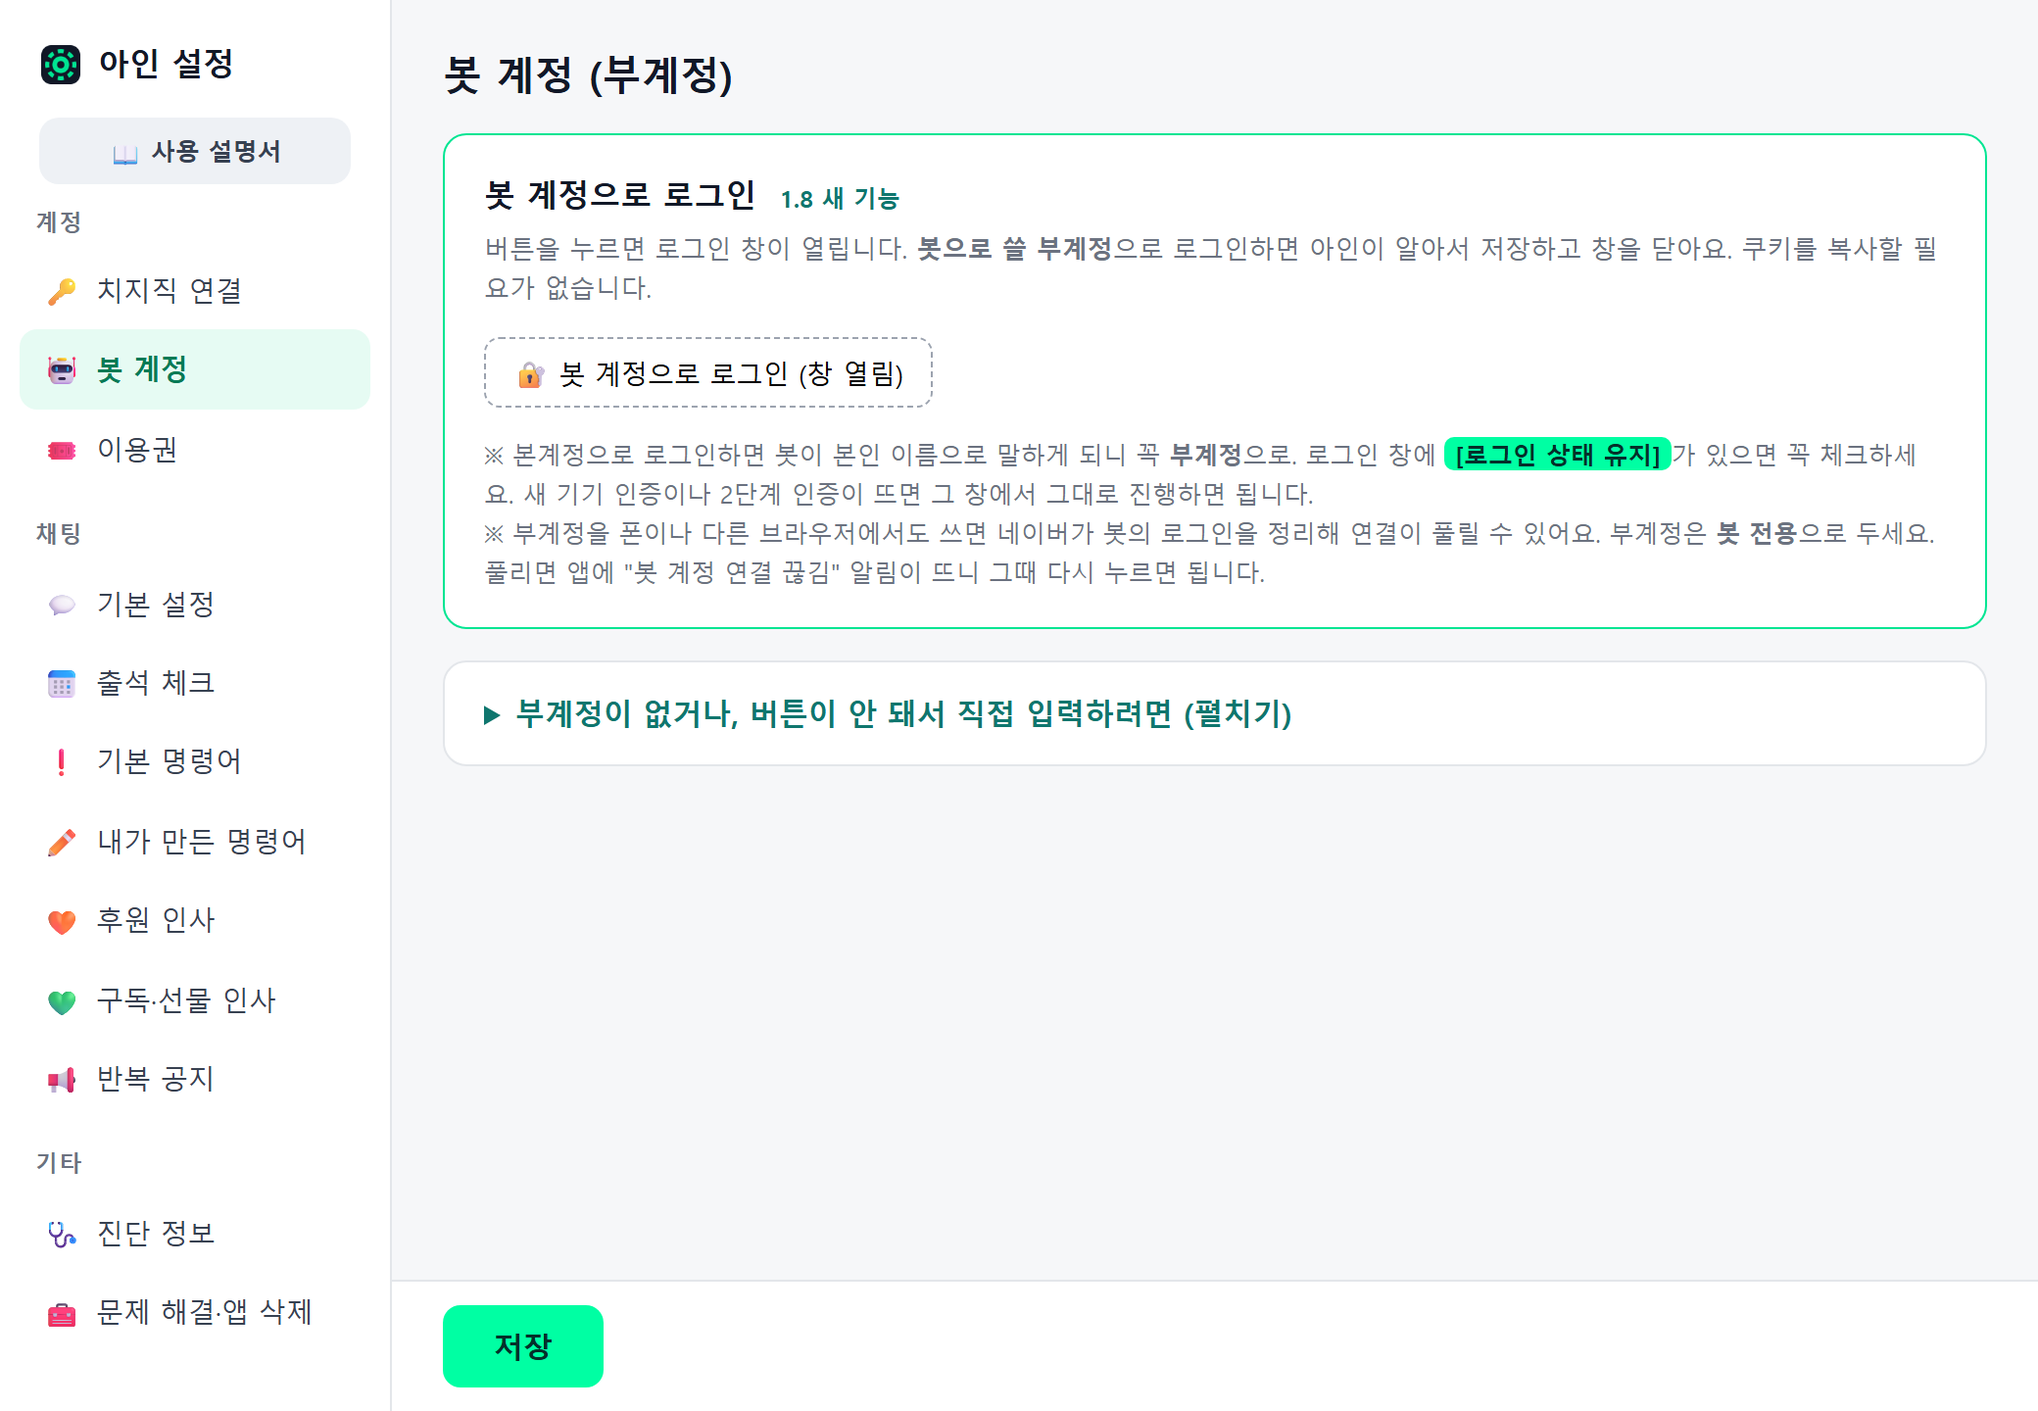
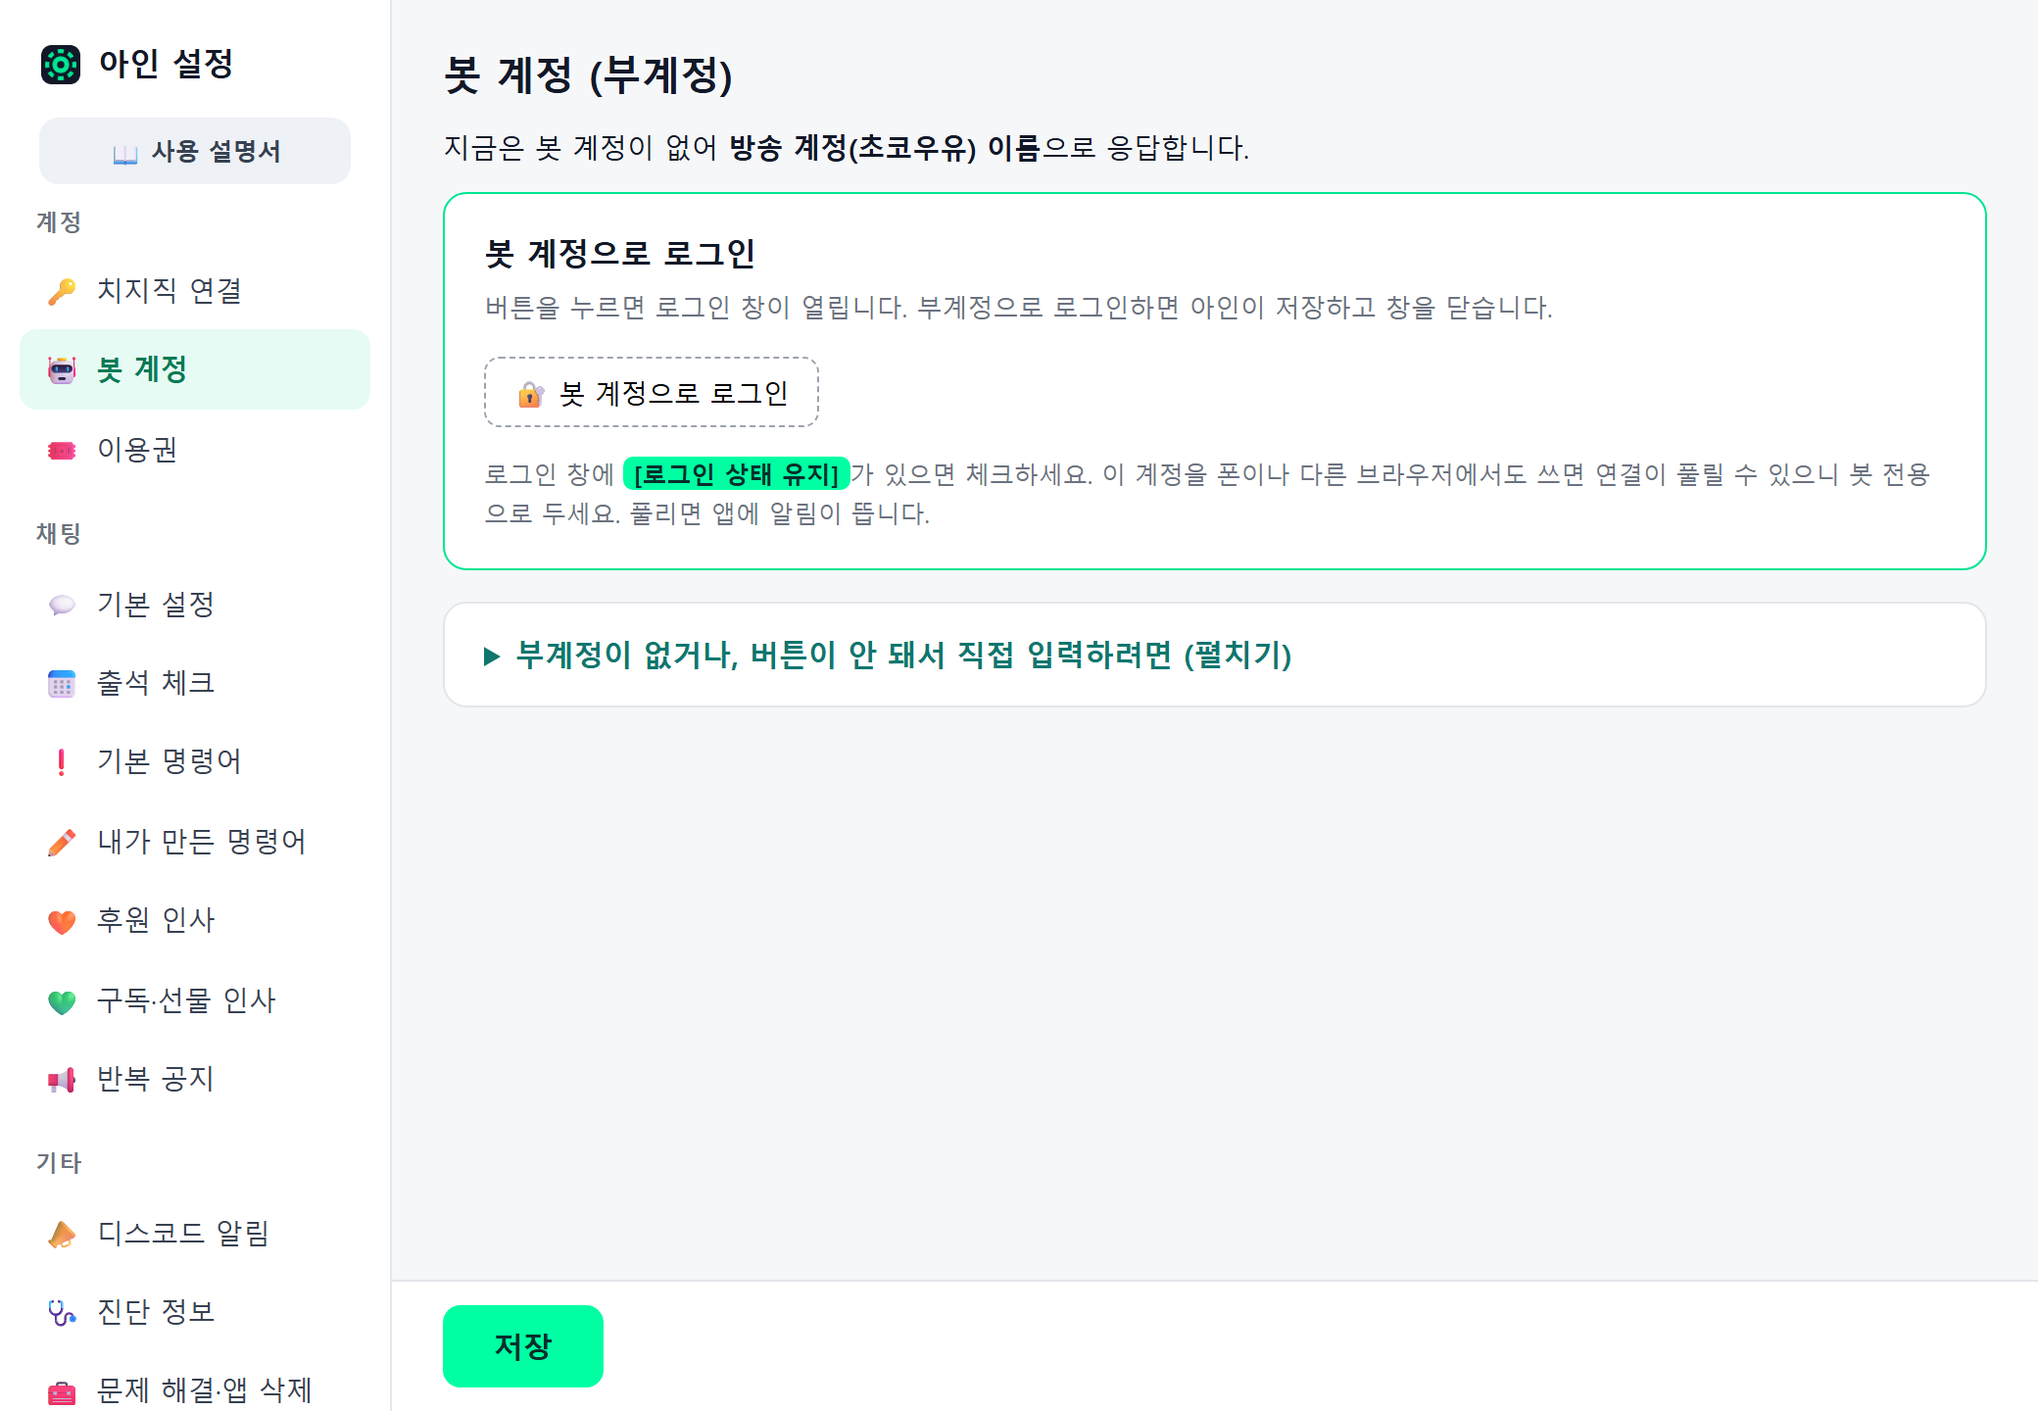
1.9.3 업데이트 기록(디스코드 알림·연결 계정 이름), 가이드 디스코드 알림 절·목차, 개인정보처리방침 개정, 봇 계정 화면 사진

diff --git a/guide/commands/index.html b/guide/commands/index.html
@@ -130,6 +130,7 @@
       <a href="/guide/donation/#donation">🧡 후원 인사</a>
       <a href="/guide/donation/#sub">💚 구독·선물 인사</a>
       <a href="/guide/commands/#notice">📢 반복 공지</a>
+      <a href="/guide/commands/#discord">📣 디스코드 알림</a>
       <a href="/privacy.html">🩺 진단 정보</a>
       <a href="/guide/troubleshooting/">🧰 문제 해결·앱 삭제</a>
       <div class="dn-grp">기능 창 · 참여</div>
@@ -156,6 +157,7 @@
   </details>
 </aside><!-- docs-nav:end -->
 
+    
     
     
     <article>
@@ -279,6 +281,30 @@
 
       <h2 id="notice">반복 공지</h2>
       <p>봇이 켜져 있는 동안 정한 간격으로 자동 전송합니다. 설정 화면의 <b>반복 공지</b>에서 [+ 공지 추가] 후 간격(분)과 내용을 적습니다. 예를 들어 20분마다 "구독하면 이모티콘이 열려요 💚" 같은 안내를 내보낼 수 있습니다. 여러 개를 두면 각자 간격대로 나갑니다. 필요 없으면 비워 두면 됩니다.</p>
+
+      <h2 id="discord">디스코드 알림</h2>
+      <p>방송이 시작되면 디스코드 채널에 메시지를 하나 보냅니다(1.9.3). 디스코드 봇 계정을 만들 필요 없이, 채널의 <b>웹훅 주소</b>만 있으면 됩니다. <b>처음에는 꺼져 있습니다.</b></p>
+      <h3>웹훅 주소 만들기 (디스코드에서, 1분)</h3>
+      <ol>
+        <li>알림을 올릴 디스코드 서버에서 <b>서버 설정 → 연동 → 웹훅 → 새 웹훅</b>.</li>
+        <li>이름은 아무거나(아인이 보낼 때 봇 이름으로 바꿔 씁니다), <b>채널</b>을 알림을 올릴 채널로 고릅니다.</li>
+        <li><b>[웹훅 URL 복사]</b>. <code>https://discord.com/api/webhooks/…</code> 로 시작하는 주소입니다.</li>
+      </ol>
+      <h3>아인에서</h3>
+      <p>설정 화면 → <b>디스코드 알림</b>. 웹훅 주소를 붙여 넣고 <b>[테스트 보내기]</b>로 디스코드에 메시지가 오는지 확인한 뒤, <b>방송 시작을 디스코드에 알림</b>을 켜고 [저장]. 봇이 켜진 상태에서도 다음 확인부터 반영됩니다.</p>
+      <ul>
+        <li><b>문구</b>: 기본은 <code>🔴 {채널} 방송 시작 — {제목}</code>. 치환자는 {채널} {제목} {카테고리} {링크} {시각}. <code>@everyone</code> 이나 <code>@here</code> 를 넣으면 그대로 전체 알림이 됩니다.</li>
+        <li><b>카드</b>: 기본으로 제목(누르면 방송으로), 카테고리, 방송 썸네일, 시작 시각이 카드로 붙습니다. 끄면 문구 한 줄과 링크만 갑니다.</li>
+      </ul>
+      <h3>언제 보내고 언제 안 보내나</h3>
+      <ul>
+        <li>봇이 켜져 있는 동안 1분마다 방송 상태를 확인해, 방송이 열리면 <b>한 번</b> 보냅니다. 같은 방송은 두 번 알리지 않습니다(봇이나 컴퓨터를 껐다 켜도).</li>
+        <li>봇을 방송 시작 <b>10분 뒤</b>에 켜면 알리지 않습니다. 뒤늦은 알림을 막기 위해서입니다. 방송 전에 봇을 켜는 평소 순서면 됩니다.</li>
+        <li>방송이 끊겨 <b>30분 안</b>에 다시 시작한 경우도 알리지 않습니다.</li>
+        <li>방송 종료 알림은 없습니다.</li>
+        <li>보내지 못하면(웹훅이 지워졌거나 주소가 틀림) 아인 창 위에 노란 띠로 알려 줍니다. 설정에서 주소를 다시 넣으세요.</li>
+      </ul>
+      <p>웹훅 주소는 내 컴퓨터의 설정 파일에만 저장되고, 진단 정보나 로그에는 남지 않습니다. 디스코드로 나가는 것은 방송 제목·카테고리·링크·썸네일 주소·채널 이름·봇 이름뿐입니다.</p>
 
       <h2 id="faq">자주 묻는 것</h2>
       <h3>시청자가 명령어를 쳤는데 봇이 대답하지 않아요</h3>

diff --git a/privacy.html b/privacy.html
@@ -45,7 +45,7 @@
   </header>
 
   <h1>개인정보처리방침</h1>
-  <p class="updated">시행일: 2026년 8월 27일 · 2026년 9월 21일 개정(1항에 기능 창 설정, 3항에 글꼴 CDN·TITS 연동 항목 추가)</p>
+  <p class="updated">시행일: 2026년 8월 27일 · 2026년 9월 21일 개정(1항에 기능 창 설정, 3항에 글꼴 CDN·TITS 연동 항목 추가) · 2026년 9월 23일 개정(1항에 디스코드 웹훅 주소·연결 계정 이름, 3항에 디스코드 연결 항목 추가)</p>
 
   <p>아인(이하 "프로그램")은 이용자의 개인정보를 소중히 다룹니다. 이 방침은 프로그램과
      운영자가 어떤 정보를 어떻게 처리하는지 설명합니다.</p>
@@ -68,6 +68,8 @@
     <li>시청자 출석 기록(닉네임·누적 횟수), 명령어 설정 및 문구</li>
     <li>프로그램 동작 로그</li>
     <li>기능 창 설정(투표·추첨·룰렛·채팅 오버레이·TTS·TITS 규칙)과 룰렛 결과 기록</li>
+    <li>디스코드 알림을 켠 경우 디스코드 웹훅 주소와 마지막으로 알린 방송의 시작 시각 (1.9.3)</li>
+    <li>설정 창에 "지금 연결된 계정"을 보여 주기 위한 방송 계정의 채널 이름·채널 ID와 봇 계정의 닉네임 (1.9.3)</li>
   </ul>
   <p class="muted">이 정보들은 이용자가 프로그램을 삭제하면 함께 제거됩니다(이용권 관련 최소 기록은 예외 — 아래 4항 참고).</p>
 
@@ -96,6 +98,7 @@
     <li><strong>네이버 커머스(스마트스토어)</strong>: 주문번호로 결제 여부를 확인할 때 이용됩니다.</li>
     <li><strong>네이버 애널리틱스</strong>: 이 웹사이트(einbot.kr)의 방문 통계(방문 수·유입 경로)를 익명으로
         집계하기 위해 사용됩니다. 프로그램(아인) 자체에는 적용되지 않습니다.</li>
+    <li><strong>디스코드(discord.com)</strong>: 디스코드 알림을 켠 경우에만, 방송이 시작될 때 이용자가 넣은 웹훅 주소로 방송 제목·카테고리·방송 링크·썸네일 주소·채널 이름·봇 이름을 보냅니다. 시청자 정보는 보내지 않습니다. (1.9.3)</li>
     <li><strong>글꼴 CDN(jsdelivr, Google Fonts)</strong>: 설정 화면과 방송 화면 오버레이가 글꼴 파일을 내려받을 때 연결됩니다. 개인정보는 전송되지 않습니다.</li>
     <li><strong>TITS(Twitch Integrated Throwing System)</strong>: 이용자가 TITS 연동을 켠 경우에만, 같은 컴퓨터 안(127.0.0.1)에서 실행 중인 TITS에 아이템 던지기·트리거 실행 요청을 보냅니다. 인터넷으로 나가지 않으며 채팅 내용·닉네임은 보내지 않습니다. TITS와 VTube Studio는 각 개발사의 정책을 따릅니다.</li>
   </ul>

diff --git a/updates/index.html b/updates/index.html
@@ -87,7 +87,17 @@
       <p class="lead">버전별로 무엇이 바뀌었는지 날짜와 함께 적습니다. 최신이 맨 위입니다.</p>
       <p class="how">업데이트는 Microsoft Store가 자동으로 설치합니다. 지금 바로 받으려면 Microsoft Store 앱 → 라이브러리 → [업데이트 받기]를 누르세요. 고치고 싶은 점이나 필요한 기능은 <a href="mailto:einbot.help@gmail.com">einbot.help@gmail.com</a>으로 보내 주시면 됩니다.</p>
 
-      <section class="ver latest" id="v1-9-2">
+      <section class="ver latest" id="v1-9-3">
+        <h2>1.9.3 <span class="date">2026년 9월 23일</span></h2>
+        <p class="pkg">스토어 버전 1.9.3.0</p>
+        <ul>
+          <li><b>디스코드 알림.</b> 방송이 시작되면 디스코드 채널에 메시지를 하나 보냅니다. 디스코드 봇 계정 없이 채널 웹훅 주소만 넣으면 되고, 문구와 카드(제목·카테고리·썸네일)를 정할 수 있습니다. 같은 방송은 한 번만, 방송 시작 10분 뒤에 봇을 켜거나 30분 안에 다시 시작한 방송은 알리지 않습니다. <b>처음에는 꺼져 있습니다.</b> <a href="/guide/commands/#discord">가이드</a></li>
+          <li><b>설정 창에 지금 연결된 계정 이름.</b> 치지직 연결 화면에는 방송 계정 이름, 봇 계정 화면에는 봇 계정 이름(없으면 "방송 계정 이름으로 응답", 로그인이 풀렸으면 그렇다고)이 보입니다.</li>
+          <li>앱 안의 옛 안내 문구 셋을 고쳤습니다. 봇 시작 로그의 "설정 파일 더블클릭", 봇 계정 로그인이 풀렸을 때의 안내(1.8부터 로그인 버튼 방식), API 키가 없을 때의 안내. 봇 계정 화면의 안내도 짧게 줄였습니다.</li>
+        </ul>
+      </section>
+
+      <section class="ver" id="v1-9-2">
         <h2>1.9.2 <span class="date">2026년 9월 23일</span></h2>
         <p class="pkg">스토어 버전 1.9.2.0</p>
         <ul>

diff --git a/guide/install/index.html b/guide/install/index.html
@@ -115,6 +115,7 @@
       <a href="/guide/donation/#donation">🧡 후원 인사</a>
       <a href="/guide/donation/#sub">💚 구독·선물 인사</a>
       <a href="/guide/commands/#notice">📢 반복 공지</a>
+      <a href="/guide/commands/#discord">📣 디스코드 알림</a>
       <a href="/privacy.html">🩺 진단 정보</a>
       <a href="/guide/troubleshooting/">🧰 문제 해결·앱 삭제</a>
       <div class="dn-grp">기능 창 · 참여</div>
@@ -141,6 +142,7 @@
   </details>
 </aside><!-- docs-nav:end -->
 
+    
     
     
     <article>
@@ -238,7 +240,7 @@
             <img src="/img/chzzk-profile-edit.png" alt="치지직 프로필 편집 창 — 닉네임 칸과 30일 변경 제한 안내" width="352" loading="lazy">
           </li>
           <li>연결은 <b>[봇 계정으로 로그인]</b> 버튼 하나입니다 (1.8). 초기 설정 3단계나 [설정] → 봇 계정에서 누르면 로그인 창이 열리고, 거기서 <b>부계정으로</b> 로그인하면 아인이 알아서 저장하고 창을 닫습니다. 예전처럼 브라우저 개발자 도구에서 쿠키를 복사할 필요가 없습니다. 봇이 돌아가는 동안 로그인이 자동으로 연장되어 매번 다시 하지 않아도 됩니다.
-            <img src="/img/bot-account.png?v=190921" alt="아인 설정 창의 봇 계정 화면 — [봇 계정으로 로그인 (창 열림)] 버튼과 부계정 안내" width="1040" height="720" loading="lazy">
+            <img src="/img/bot-account.png?v=190923" alt="아인 설정 창의 봇 계정 화면 — [봇 계정으로 로그인] 버튼과 부계정 안내" width="1040" height="720" loading="lazy">
           </li>
         </ul>
         <div class="warn">

diff --git a/guide/troubleshooting/index.html b/guide/troubleshooting/index.html
@@ -170,6 +170,7 @@
       <a href="/guide/donation/#donation">🧡 후원 인사</a>
       <a href="/guide/donation/#sub">💚 구독·선물 인사</a>
       <a href="/guide/commands/#notice">📢 반복 공지</a>
+      <a href="/guide/commands/#discord">📣 디스코드 알림</a>
       <a href="/privacy.html">🩺 진단 정보</a>
       <a href="/guide/troubleshooting/">🧰 문제 해결·앱 삭제</a>
       <div class="dn-grp">기능 창 · 참여</div>
@@ -196,6 +197,7 @@
   </details>
 </aside><!-- docs-nav:end -->
 
+    
     
     
     <article>
@@ -276,7 +278,7 @@
         <b>해결</b>
         <ol>
           <li>휴대폰 등 다른 기기에서 부계정을 <b>로그아웃</b>합니다. 부계정은 봇 전용으로 두는 것이 가장 안정적입니다.</li>
-          <li>아인 창의 [설정] → <b>봇 계정</b> → <b>[봇 계정으로 로그인 (창 열림)]</b>을 누르고, 열리는 창에서 <b>부계정으로</b> 로그인합니다. 아인이 알아서 저장하고 창을 닫습니다. 화면은 <a href="/guide/install/#step5">설치 가이드 5단계</a>에 있습니다.</li>
+          <li>아인 창의 [설정] → <b>봇 계정</b> → <b>[봇 계정으로 로그인]</b>을 누르고, 열리는 창에서 <b>부계정으로</b> 로그인합니다. 아인이 알아서 저장하고 창을 닫습니다. 화면은 <a href="/guide/install/#step5">설치 가이드 5단계</a>에 있습니다.</li>
           <li>봇이 켜져 있으면 바로 다시 붙습니다. "[봇 계정] 연결 완료" 로그가 나오면 끝입니다.</li>
         </ol>
       </div>

diff --git a/guide/attendance/index.html b/guide/attendance/index.html
@@ -136,6 +136,7 @@
       <a href="/guide/donation/#donation">🧡 후원 인사</a>
       <a href="/guide/donation/#sub">💚 구독·선물 인사</a>
       <a href="/guide/commands/#notice">📢 반복 공지</a>
+      <a href="/guide/commands/#discord">📣 디스코드 알림</a>
       <a href="/privacy.html">🩺 진단 정보</a>
       <a href="/guide/troubleshooting/">🧰 문제 해결·앱 삭제</a>
       <div class="dn-grp">기능 창 · 참여</div>
@@ -162,6 +163,7 @@
   </details>
 </aside><!-- docs-nav:end -->
 
+    
     
     
     <article>

diff --git a/guide/donation/index.html b/guide/donation/index.html
@@ -134,6 +134,7 @@
       <a href="/guide/donation/#donation">🧡 후원 인사</a>
       <a href="/guide/donation/#sub">💚 구독·선물 인사</a>
       <a href="/guide/commands/#notice">📢 반복 공지</a>
+      <a href="/guide/commands/#discord">📣 디스코드 알림</a>
       <a href="/privacy.html">🩺 진단 정보</a>
       <a href="/guide/troubleshooting/">🧰 문제 해결·앱 삭제</a>
       <div class="dn-grp">기능 창 · 참여</div>
@@ -160,6 +161,7 @@
   </details>
 </aside><!-- docs-nav:end -->
 
+    
     
     
     <article>

diff --git a/guide/index.html b/guide/index.html
@@ -97,6 +97,7 @@
       <a href="/guide/donation/#donation">🧡 후원 인사</a>
       <a href="/guide/donation/#sub">💚 구독·선물 인사</a>
       <a href="/guide/commands/#notice">📢 반복 공지</a>
+      <a href="/guide/commands/#discord">📣 디스코드 알림</a>
       <a href="/privacy.html">🩺 진단 정보</a>
       <a href="/guide/troubleshooting/">🧰 문제 해결·앱 삭제</a>
       <div class="dn-grp">기능 창 · 참여</div>
@@ -123,6 +124,7 @@
   </details>
 </aside><!-- docs-nav:end -->
 
+    
     
     
     <article>

diff --git a/guide/overlay/index.html b/guide/overlay/index.html
@@ -98,6 +98,7 @@
       <a href="/guide/donation/#donation">🧡 후원 인사</a>
       <a href="/guide/donation/#sub">💚 구독·선물 인사</a>
       <a href="/guide/commands/#notice">📢 반복 공지</a>
+      <a href="/guide/commands/#discord">📣 디스코드 알림</a>
       <a href="/privacy.html">🩺 진단 정보</a>
       <a href="/guide/troubleshooting/">🧰 문제 해결·앱 삭제</a>
       <div class="dn-grp">기능 창 · 참여</div>
@@ -124,6 +125,7 @@
   </details>
 </aside><!-- docs-nav:end -->
 
+    
     
     
     <article>

diff --git a/guide/participation/index.html b/guide/participation/index.html
@@ -97,6 +97,7 @@
       <a href="/guide/donation/#donation">🧡 후원 인사</a>
       <a href="/guide/donation/#sub">💚 구독·선물 인사</a>
       <a href="/guide/commands/#notice">📢 반복 공지</a>
+      <a href="/guide/commands/#discord">📣 디스코드 알림</a>
       <a href="/privacy.html">🩺 진단 정보</a>
       <a href="/guide/troubleshooting/">🧰 문제 해결·앱 삭제</a>
       <div class="dn-grp">기능 창 · 참여</div>
@@ -123,6 +124,7 @@
   </details>
 </aside><!-- docs-nav:end -->
 
+    
     
     
     <article>

diff --git a/guide/time/index.html b/guide/time/index.html
@@ -97,6 +97,7 @@
       <a href="/guide/donation/#donation">🧡 후원 인사</a>
       <a href="/guide/donation/#sub">💚 구독·선물 인사</a>
       <a href="/guide/commands/#notice">📢 반복 공지</a>
+      <a href="/guide/commands/#discord">📣 디스코드 알림</a>
       <a href="/privacy.html">🩺 진단 정보</a>
       <a href="/guide/troubleshooting/">🧰 문제 해결·앱 삭제</a>
       <div class="dn-grp">기능 창 · 참여</div>
@@ -123,6 +124,7 @@
   </details>
 </aside><!-- docs-nav:end -->
 
+    
     
     
     <article>
